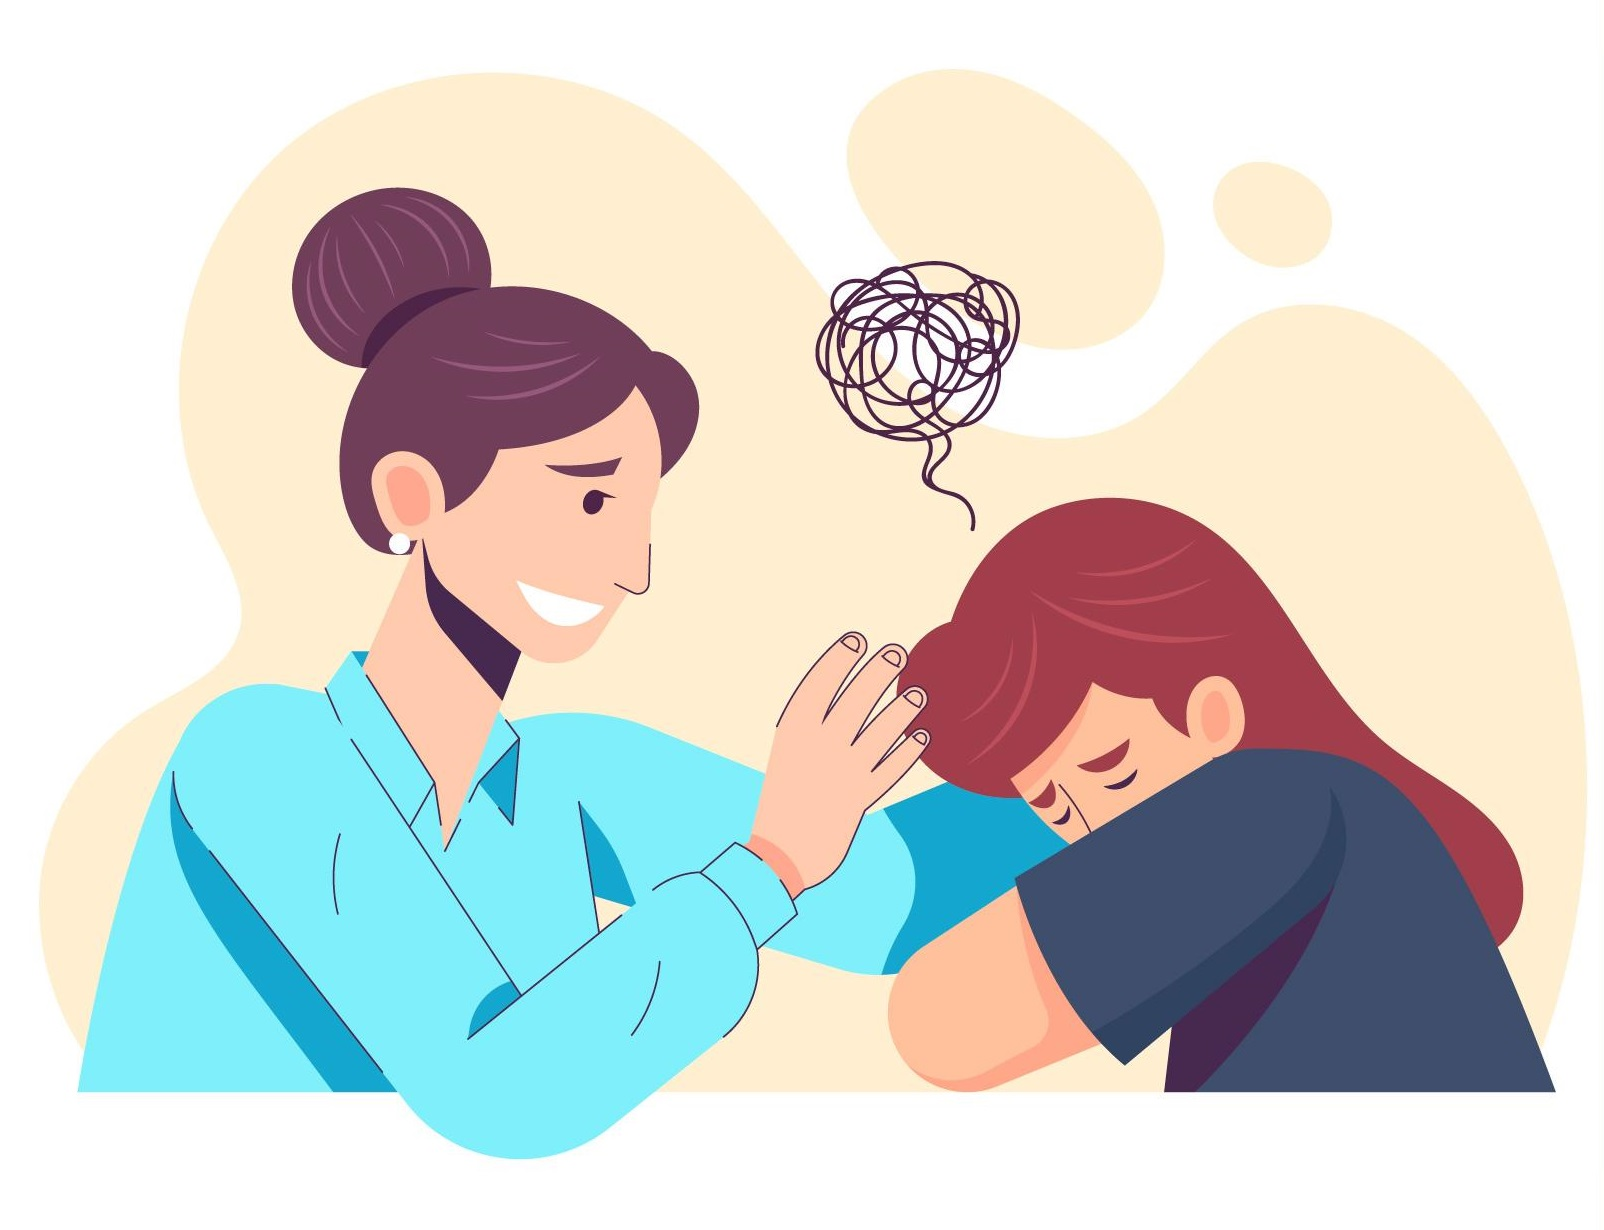
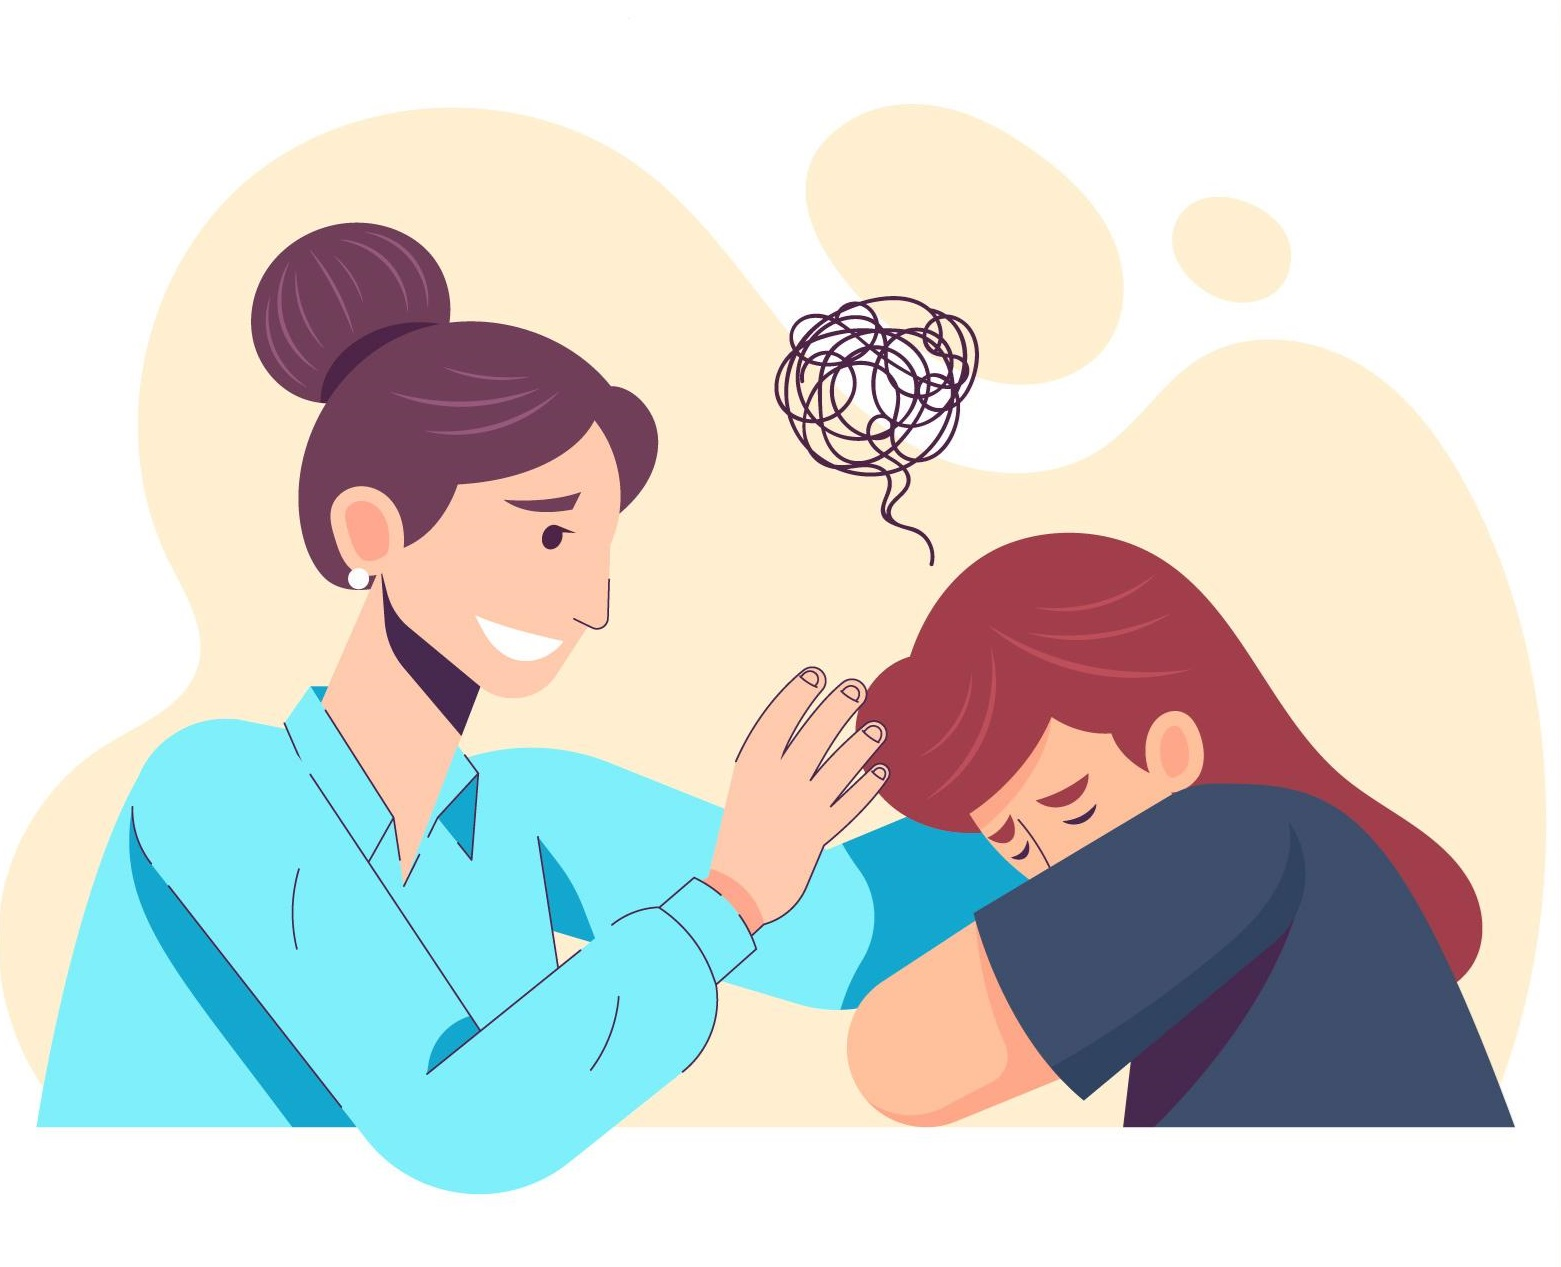
home page changes

diff --git a/src/app/page.jsx b/src/app/page.jsx
@@ -25,75 +25,79 @@ export default function Home() {
   ];
   return (
     <>
-      <div className="flex flex-col items-center justify-center p-6 bg-blue-50 md:flex-row md:p-20">
-        <div className="mb-6 text-center md:mb-0 md:mr-10 md:text-left">
-          <h1 className="text-4xl font-semibold text-gray-800">Welcome to</h1>
-          <h2 className="text-6xl font-bold text-gray-800">Dextra Rehab</h2>
-          <p className="mt-2 text-4xl text-gray-600">Your Health, Our Priority</p>
-          <button className="px-4 py-2 mt-4 text-white bg-blue-700 rounded hover:bg-blue-800">
-            Get Started
-          </button>
-        </div>
-        <div className="flex-shrink-0">
-          <Image
-            src={image1}
-            alt="Doctor with patient"
-            width={500}
-            height={400}
-            className="rounded"
-          />
-        </div>
-      </div>
+   <div className="flex flex-col items-center justify-center bg-blue-50 md:flex-row md:p-20 sm:pt-10">
+  <div className="mb-6 text-center md:mb-0 md:mr-10 md:text-left">
+    <h1 className="text-2xl font-semibold text-gray-800 sm:text-3xl md:text-4xl">Welcome to</h1>
+    <h2 className="text-3xl font-bold text-gray-800 sm:text-4xl md:text-6xl">Dextra Rehab</h2>
+    <p className="mt-2 text-xl text-gray-600 sm:text-2xl md:text-4xl">Your Health, Our Priority</p>
+    <button className="px-4 py-2 mt-4 text-white bg-blue-700 rounded hover:bg-blue-800">
+      Get Started
+    </button>
+  </div>
+  <div className="flex-shrink-0 p-4 md:p-0">
+    <Image
+      src={image1}
+      alt="Doctor with patient"
+      width={380}
+      height={300}
+      className="rounded w-full h-auto object-cover"
+    />
+  </div>
+</div>
 
 
-      <div className="flex flex-col items-center justify-center p-6 bg-white md:flex-row md:p-20">
-        <div className="flex-shrink-0">
+
+      <div className="flex flex-col items-center justify-center bg-white md:flex-row">
+        <div className="ml-0 mt-6 text-center md:ml-10 md:mt-0 md:text-left md:order-2">
+          <h2 className="text-4xl font-semibold text-gray-800">
+            Your Trusted Health Partner
+          </h2>
+        </div>
+        <div className="flex-shrink-0 p-4 md:p-0 md:order-1">
           <Image
             src={image2}
             alt="Healthcare illustration"
             width={600}
             height={400}
-            className="rounded"
+            className="rounded w-full h-auto"
           />
         </div>
-        <div className="ml-0 mt-6 text-center md:ml-10 md:mt-0 md:text-left">
-          <h2 className="text-4xl font-semibold text-gray-800">
-            Your Trusted Health Partner
-          </h2>
-        </div>
       </div>
-      <div className="flex flex-col md:flex-row justify-center items-center p-6 space-y-6 md:space-y-0 md:space-x-6">
-      <div className="text-center">
-        <div className="bg-blue-900 text-white w-24 h-24 md:w-32 md:h-32 rounded-full flex justify-center items-center text-2xl md:text-3xl mx-auto">
-          +10
-        </div>
-        <div className="mt-2 text-lg">Years of Experience</div>
-      </div>
-      <div className="text-center">
-        <div className="bg-blue-900 text-white w-24 h-24 md:w-32 md:h-32 rounded-full flex justify-center items-center text-2xl md:text-3xl mx-auto">
-          12
-        </div>
-        <div className="mt-2 text-lg">Schools in collaboration</div>
-      </div>
-      <div className="text-center">
-        <div className="bg-blue-900 text-white w-24 h-24 md:w-32 md:h-32 rounded-full flex justify-center items-center text-2xl md:text-3xl mx-auto">
-          3K+
-        </div>
-        <div className="mt-2 text-lg">Patients treated</div>
-      </div>
-    </div>
 
+
+
+
+      <div className="flex flex-col pb-20 md:flex-row justify-center items-center space-y-6 md:space-y-0 md:space-x-6">
+        <div className="text-center">
+          <div className="bg-blue-900 text-white w-24 h-24 md:w-32 md:h-32 rounded-full flex justify-center items-center text-2xl md:text-3xl mx-auto">
+            +10
+          </div>
+          <div className="mt-2 text-lg">Years of Experience</div>
+        </div>
+        <div className="text-center">
+          <div className="bg-blue-900 text-white w-24 h-24 md:w-32 md:h-32 rounded-full flex justify-center items-center text-2xl md:text-3xl mx-auto">
+            12
+          </div>
+          <div className="mt-2 text-lg">Schools in collaboration</div>
+        </div>
+        <div className="text-center">
+          <div className="bg-blue-900 text-white w-24 h-24 md:w-32 md:h-32 rounded-full flex justify-center items-center text-2xl md:text-3xl mx-auto">
+            3K+
+          </div>
+          <div className="mt-2 text-lg">Patients treated</div>
+        </div>
+      </div>
 
       <div className="flex flex-col items-center justify-center p-6 bg-blue-50 md:flex-row md:space-x-8">
         {therapies.map((therapy, index) => (
-          <div key={index} className="flex flex-col items-center p-4 bg-white shadow-lg rounded-lg">
+          <div key={index} className="flex flex-col items-center p-4 bg-white shadow-lg rounded-lg sm:scroll-auto ">
             <div className="flex-shrink-0">
               <Image
                 src={therapy.src}
                 alt={therapy.alt}
                 width={300}
                 height={300}
-                className="rounded"
+                className="rounded w-full h-auto"
               />
             </div>
             <div className="mt-4 text-center">
@@ -103,11 +107,12 @@ export default function Home() {
         ))}
       </div>
 
-
-      <div className="bg-blue-100 p-6 rounded-lg shadow-md">
-        <h2 className="text-2xl font-semibold mb-4">Our Mission</h2>
+      <div className="bg-blue-100 p-8 rounded-lg shadow-md text-center">
+        <h2 className="text-3xl font-bold mb-4">Our Mission</h2>
         <p className="text-gray-700">
-          Committed to delivering superior healthcare services with a focus on quality, safety, and patient satisfaction. Our mission is to create a healing environment where advanced medical practices meet personalized care, ensuring the best outcomes for our patients.
+          Committed to delivering superior healthcare services with a focus on quality, safety, and patient satisfaction.
+          <br />
+          Our mission is to create a healing environment where advanced medical practices meet personalized care, ensuring the best outcomes for our patients.
         </p>
       </div>
     </>

diff --git a/src/app/component/Footer.jsx b/src/app/component/Footer.jsx
@@ -1,12 +1,6 @@
-import React from "react";
-import { FontAwesomeIcon } from "@fortawesome/react-fontawesome";
-import {
-  faFacebookF,
-  faInstagram,
-  faLinkedinIn,
-  faTwitter,
-  faYoutube,
-} from "@fortawesome/free-brands-svg-icons";
+import React from 'react';
+import { FontAwesomeIcon } from '@fortawesome/react-fontawesome';
+import { faFacebookF, faInstagram, faLinkedinIn, faTwitter, faYoutube } from '@fortawesome/free-brands-svg-icons';
 
 export default function Footer() {
   return (
@@ -17,64 +11,26 @@ export default function Footer() {
             <span className="">TheraClinic</span>
           </div>
           <div className=" flex space-x-20 ">
-            <a href="#about" className="hover:underline">
-              About
-            </a>
-            <a href="#services" className="hover:underline">
-              Services
-            </a>
-            <a
-              href="https://www.linkedin.com"
-              target="_blank"
-              rel="noopener noreferrer"
-              className="hover:underline"
-            >
-              LinkedIn
-            </a>
-            <a href="#content" className="hover:underline">
-              Contact
-            </a>
+            <a href="#about" className="hover:underline">About</a>
+            <a href="#services" className="hover:underline">Services</a>
+            <a href="https://www.linkedin.com" target="_blank" rel="noopener noreferrer" className="hover:underline">LinkedIn</a>
+            <a href="#content" className="hover:underline">Contact</a>
           </div>
         </div>
         <div className="flex-1 flex justify-around items-center space-x-4">
-          <a
-            href="https://www.facebook.com"
-            target="_blank"
-            rel="noopener noreferrer"
-            className="hover:underline"
-          >
+          <a href="https://www.facebook.com" target="_blank" rel="noopener noreferrer" className="hover:underline">
             <FontAwesomeIcon icon={faFacebookF} size="2x" />
           </a>
-          <a
-            href="https://www.instagram.com"
-            target="_blank"
-            rel="noopener noreferrer"
-            className="hover:underline"
-          >
+          <a href="https://www.instagram.com" target="_blank" rel="noopener noreferrer" className="hover:underline">
             <FontAwesomeIcon icon={faInstagram} size="2x" />
           </a>
-          <a
-            href="https://www.linkedin.com"
-            target="_blank"
-            rel="noopener noreferrer"
-            className="hover:underline"
-          >
+          <a href="https://www.linkedin.com" target="_blank" rel="noopener noreferrer" className="hover:underline">
             <FontAwesomeIcon icon={faLinkedinIn} size="2x" />
           </a>
-          <a
-            href="https://www.twitter.com"
-            target="_blank"
-            rel="noopener noreferrer"
-            className="hover:underline"
-          >
+          <a href="https://www.twitter.com" target="_blank" rel="noopener noreferrer" className="hover:underline">
             <FontAwesomeIcon icon={faTwitter} size="2x" />
           </a>
-          <a
-            href="https://www.youtube.com"
-            target="_blank"
-            rel="noopener noreferrer"
-            className="hover:underline"
-          >
+          <a href="https://www.youtube.com" target="_blank" rel="noopener noreferrer" className="hover:underline">
             <FontAwesomeIcon icon={faYoutube} size="2x" />
           </a>
         </div>
@@ -86,19 +42,13 @@ export default function Footer() {
           <span>2024 TheraClinic.All rights are reserved</span>
         </div>
         <div className="text-center flex-1">
-          <a href="#privacy" className="hover:underline">
-            Privacy Policy
-          </a>
+          <a href="#privacy" className="hover:underline">Privacy Policy</a>
         </div>
         <div className="text-center flex-1">
-          <a href="#terms" className="hover:underline">
-            Terms of Services
-          </a>
+          <a href="#terms" className="hover:underline">Terms of Services</a>
         </div>
         <div className="text-center flex-1">
-          <a href="#cookies" className="hover:underline">
-            Cookie Settings
-          </a>
+          <a href="#cookies" className="hover:underline">Cookie Settings</a>
         </div>
       </div>
     </div>

diff --git a/src/app/layout.jsx b/src/app/layout.jsx
@@ -16,7 +16,7 @@ export default function RootLayout({ children }) {
       <body className={inter.className}>
       <Navbar/>
         {children} 
-      <Footer/>
+      {/* <Footer/> */}
       </body>
     </html>
   );
